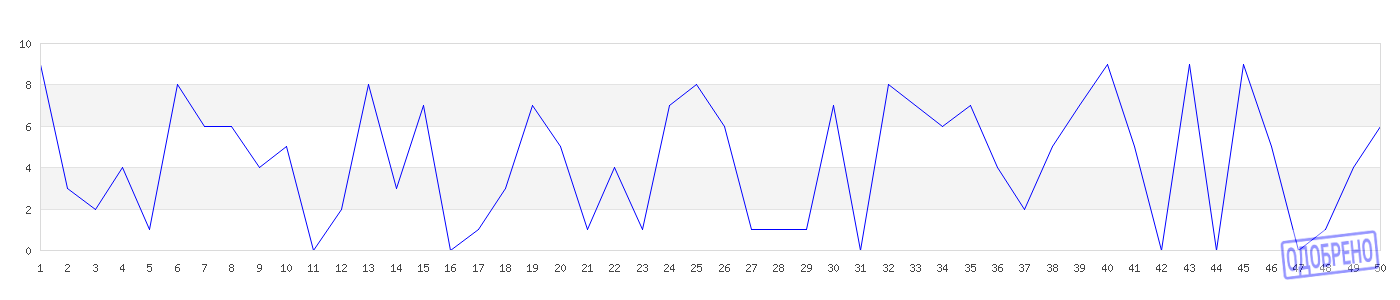
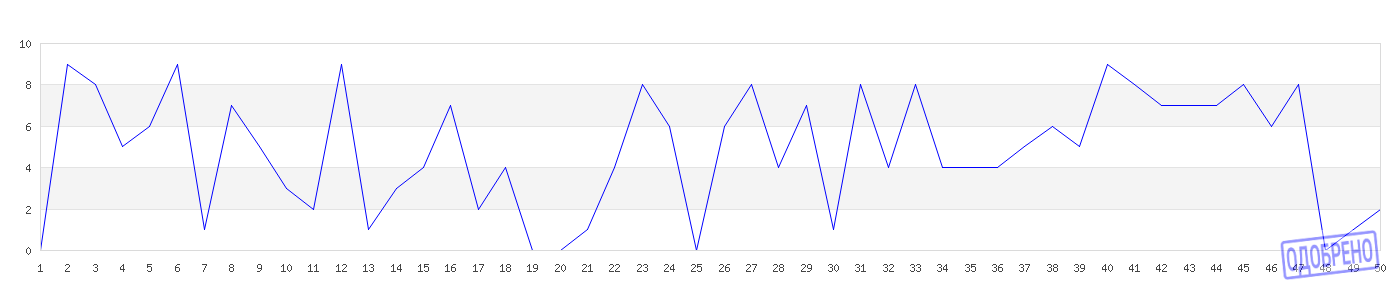
Update to 7.3 and little changes

diff --git a/nginx/src/index.html b/nginx/src/index.html
@@ -8,11 +8,6 @@ $lang = "ru";
 if (!empty($_COOKIE['lang']) && $_COOKIE['lang'] == 'en') {
     $lang = "en";
 }
-
-$favicon = "http://localhost:8006/img/hp.png";
-if (!empty($_COOKIE['fav']) && $_COOKIE['fav'] == 'witcher') {
-    $favicon = "http://localhost:8006/img/witch.png";
-}
 ?>
 
 
@@ -46,11 +41,15 @@ if (!empty($_COOKIE['fav']) && $_COOKIE['fav'] == 'witcher') {
                 node.insertAdjacentHTML('afterend', '<br><li><a href="en/about.html">Learn about us</a></li>');
                 node.insertAdjacentHTML('afterend', '<br><li><a href="admin">Sign in</a></li>');
                 node.insertAdjacentHTML('afterend', '<br><li><a href="product">List of tools</a></li>');
+                node.insertAdjacentHTML('afterend', '<br><li><a href="statistics">List of graphics</a></li>'
+                );
             }
             else{
                 node.insertAdjacentHTML('afterend', '<br><li><a href="about.html">О нас</a></li>');
                 node.insertAdjacentHTML('afterend', '<br><li><a href="admin">Войти</a></li>');
                 node.insertAdjacentHTML('afterend', '<br><li><a href="product">Список товаров</a></li>');
+                node.insertAdjacentHTML('afterend', '<br><li><a href="statistics">Страница графиков</a></li>'
+                );
             }
         </script>
     </ul>

diff --git a/nginx/src/en/about.html b/nginx/src/en/about.html
@@ -12,7 +12,7 @@ if (!empty($_COOKIE['fav']) && $_COOKIE['fav'] == 'witcher') {
 <html lang="ru">
 <head>
     <meta charset="utf-8" />
-    <title>About Сoffee house</title>
+    <title>About us</title>
     <link rel="icon" href="<?php echo $favicon; ?>" type="image/x-icon" id="fav-link">
     <link rel="stylesheet"
           href="<?php echo $themeStyleSheet; ?>"

diff --git a/apache-php/src/mvc_app/views/product/products.php b/apache-php/src/mvc_app/views/product/products.php
@@ -1,21 +1,21 @@
 <style>
-    /* внешние границы таблицы серого цвета толщиной 1px */
     table {
+        width:500px;
         border: 1px solid grey;
         margin-left: auto;
         margin-right: auto;
     }
 
-    /* границы ячеек первого ряда таблицы */
     th {
+        height:30px;
         border: 1px solid grey;
-        font-size: 250%;
+        font-size: 18px;
     }
 
-    /* границы ячеек тела таблицы */
     td {
+        height: 30px;
         border: 1px solid grey;
-        font-size: 250%;
+        font-size: 18px;
     }
 
     h1 {
@@ -23,6 +23,8 @@
     }
 </style>
 <div style="display: flex;flex-direction: column;">
+    <a href="index.html">Назад</a>
+    <h1>Наш товар</h1>
     <table>
         <tr>
             <th>Desc</th>
@@ -30,7 +32,9 @@
         </tr>
     <?php
     $id = 'id';
+    $lang = '';
     if ($lang == 'en'){
+        $products = [];
         foreach ($products as $row){
             echo "
         <tr>

diff --git a/apache-php/src/mvc_app/controllers/AdminController.php b/apache-php/src/mvc_app/controllers/AdminController.php
@@ -35,10 +35,6 @@ class AdminController extends Controller
                 $this->view->json($vars['result'], $vars['code']);
                 break;
             case 'DELETE':
-//                $mas = (parse_url($url, PHP_URL_PATH));
-//                $item = explode('/', $mas);
-//                $id = array_pop($item);
-//                echo $id;
                 $data = json_decode(file_get_contents("php://input"));
                 $vars = $this->model->delete($data);
                 $this->view->json($vars['result'], $vars['code']);

diff --git a/apache-php/src/mvc_app/core/Router.php b/apache-php/src/mvc_app/core/Router.php
@@ -8,7 +8,7 @@ class Router {
     protected $params = [];
 
     public function __construct() {
-        $arr = require 'mvc_app/config/routers.php';
+        $arr = require 'mvc_app/config/routes.php';
         foreach ($arr as $key => $val){
             #echo ($key);
             $this->add($key, $val);

diff --git a/apache-php/src/mvc_app/views/admin/users.php b/apache-php/src/mvc_app/views/admin/users.php
@@ -29,6 +29,7 @@
     }
 </style>
 <div style="display: flex;flex-direction: column;">
+    <a href="index.html">Назад</a>
     <h1>Таблица пользователей</h1>
     <table>
         <tr>
